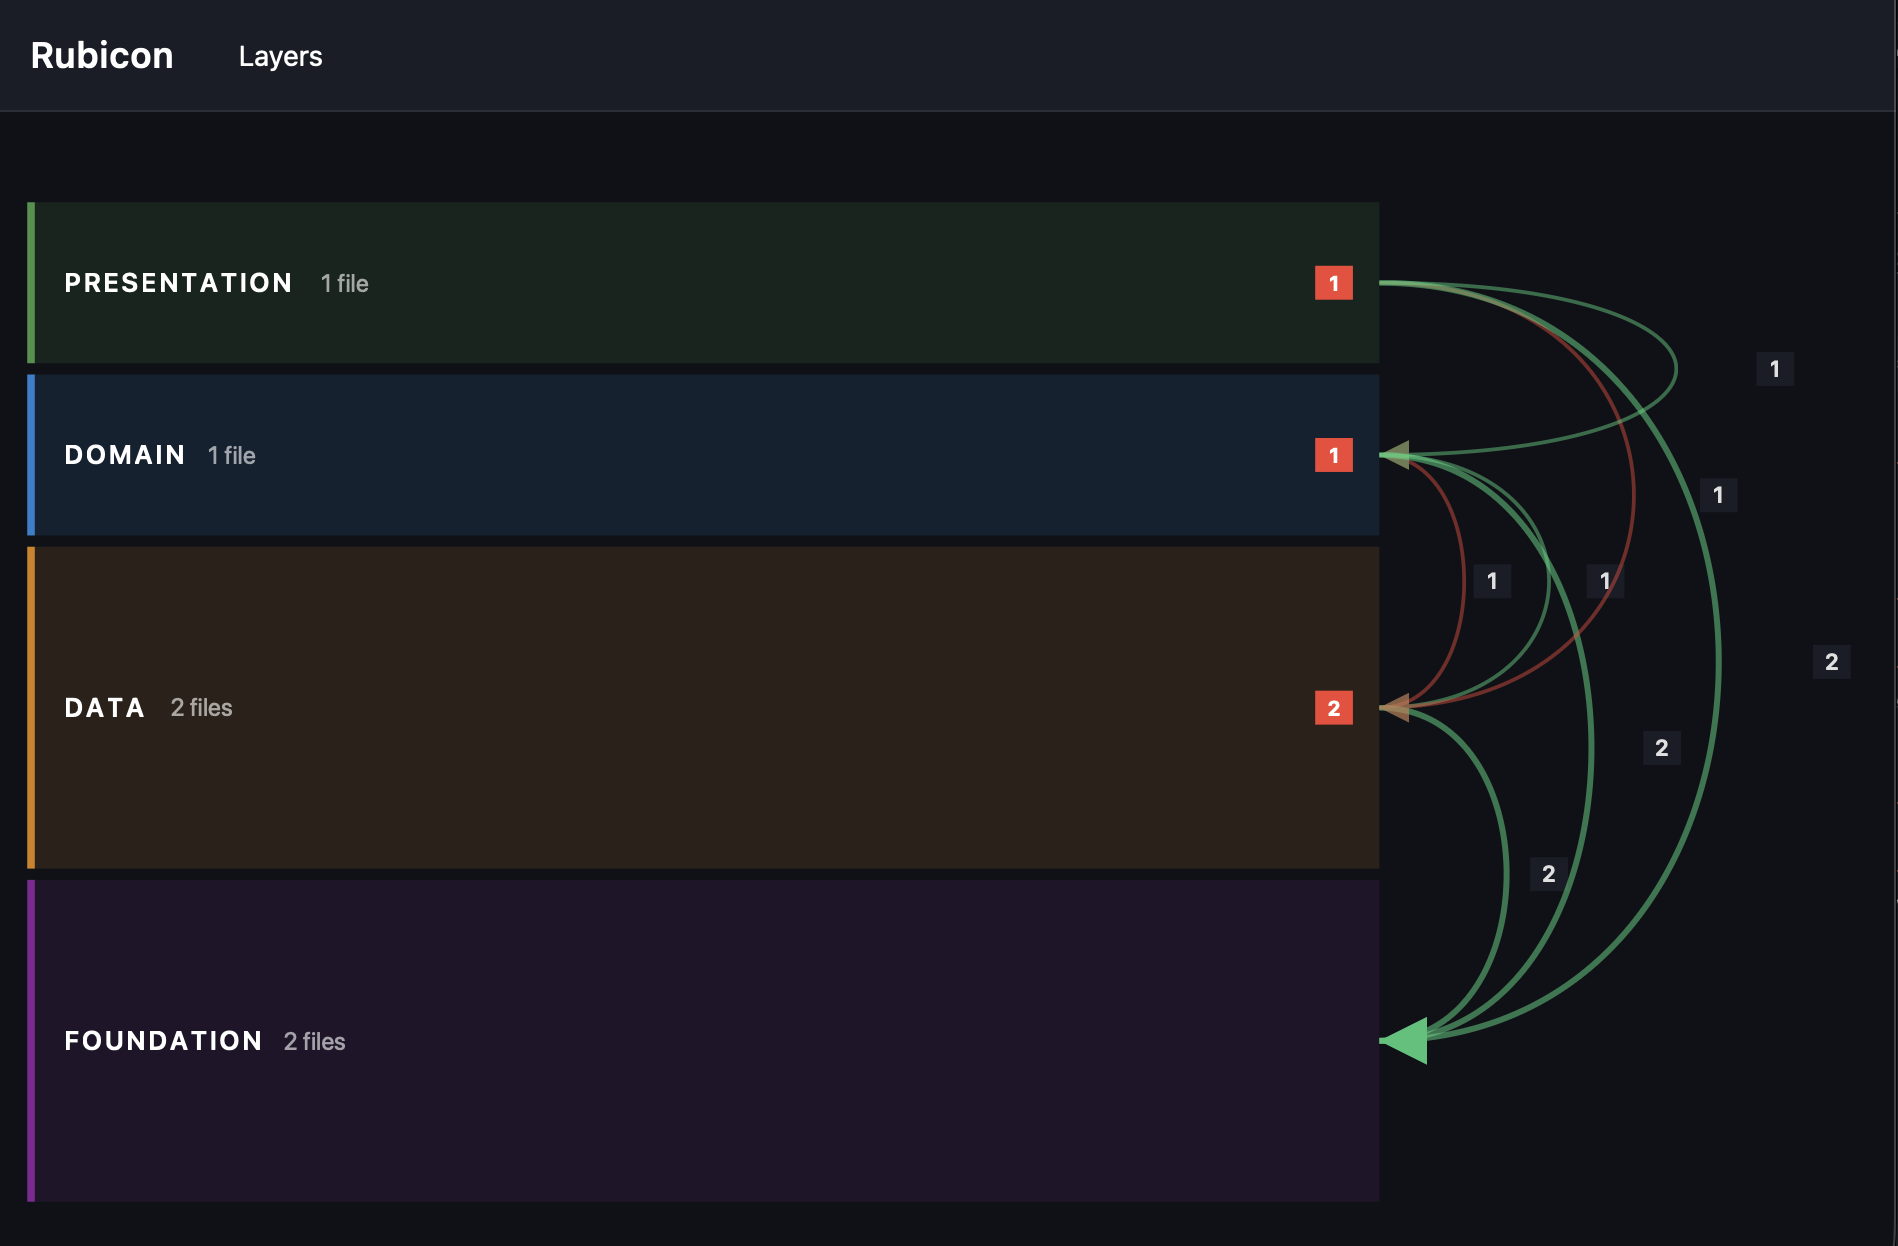
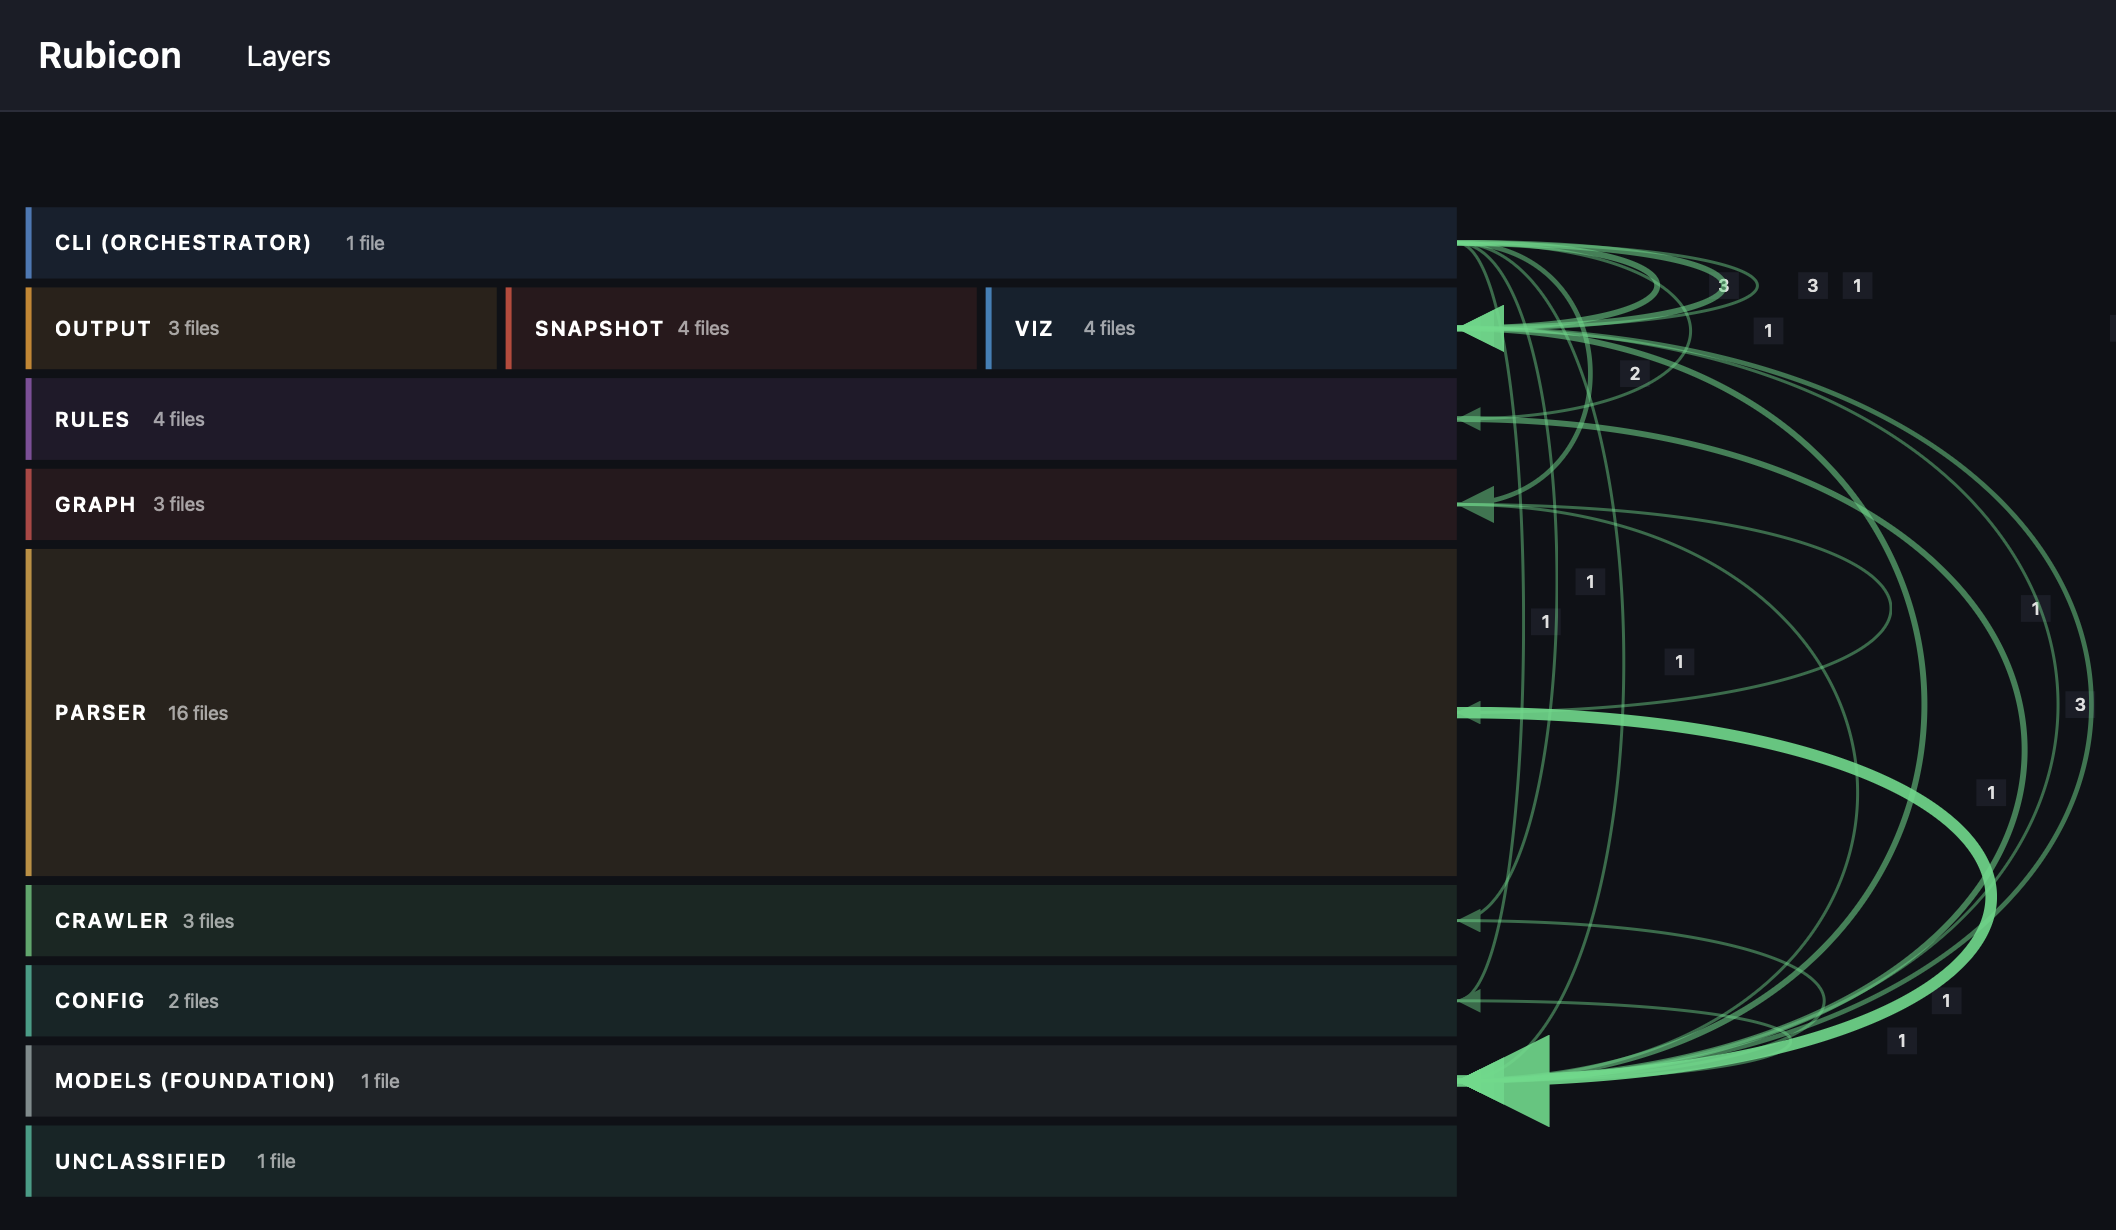
feat: add ignore option to .rubicon config for excluding files from analysis
Files matching ignore patterns are excluded at crawl time — they never
become graph nodes, trigger rules, or appear in the visualization.
Patterns use the same syntax as .gitignore (directories, globs, negation).

Changed region(s): [[0.0, 0.0, 1.0, 1.0], [0.0, 0.0309, 0.0933, 0.0618], [0.1243, 0.0309, 0.1865, 0.0618]]

diff --git a/tests/test_crawler.py b/tests/test_crawler.py
@@ -103,3 +103,30 @@ class TestScan:
             assert False, "Should have raised FrozenInstanceError"
         except AttributeError:
             pass
+
+    def test_ignore_patterns_exclude_files(self) -> None:
+        all_files = scan(FIXTURES)
+        filtered_files = scan(FIXTURES, ignore=["src/app.py"])
+        all_paths = {str(f.path) for f in all_files}
+        filtered_paths = {str(f.path) for f in filtered_files}
+        assert "src/app.py" in all_paths
+        assert "src/app.py" not in filtered_paths
+
+    def test_ignore_patterns_directory(self) -> None:
+        all_files = scan(FIXTURES)
+        filtered_files = scan(FIXTURES, ignore=["src/"])
+        assert len(all_files) == 5
+        assert len(filtered_files) == 0
+
+    def test_ignore_patterns_glob(self) -> None:
+        all_files = scan(FIXTURES)
+        filtered_files = scan(FIXTURES, ignore=["*.py"])
+        all_paths = {str(f.path) for f in all_files}
+        filtered_paths = {str(f.path) for f in filtered_files}
+        assert "src/app.py" in all_paths
+        assert not any(p.endswith(".py") for p in filtered_paths)
+
+    def test_ignore_empty_list_changes_nothing(self) -> None:
+        normal = scan(FIXTURES)
+        with_empty = scan(FIXTURES, ignore=[])
+        assert len(normal) == len(with_empty)

diff --git a/rubicon/cli.py b/rubicon/cli.py
@@ -153,7 +153,8 @@ def analyze(
 ) -> None:
     """Analyze a project's architecture."""
     typer.echo(f"Analyzing: {path}")
-    files = scan(path)
+    config = load_config(path)
+    files = scan(path, ignore=config.ignore)
 
     if crawl_only:
         for f in files:
@@ -167,7 +168,6 @@ def analyze(
         typer.echo(graph_summary(graph))
         raise typer.Exit()
 
-    config = load_config(path)
     if not config.layers and not (path / ".rubicon").is_file():
         typer.echo("No .rubicon config found. Run 'rubicon init' to get started.", err=True)
         raise typer.Exit(code=1)
@@ -257,9 +257,9 @@ def check(
     Produces compact output, saves no snapshots, and returns exit code 1
     if any violations at or above --fail-on severity are found.
     """
-    files = scan(path)
-    graph = build_graph(files)
     config = load_config(path)
+    files = scan(path, ignore=config.ignore)
+    graph = build_graph(files)
     if not config.layers and not (path / ".rubicon").is_file():
         typer.echo("No .rubicon config found. Run 'rubicon init' to get started.", err=True)
         raise typer.Exit(code=1)

diff --git a/rubicon/crawler/ignore.py b/rubicon/crawler/ignore.py
@@ -22,8 +22,13 @@ DEFAULT_EXCLUDES: list[str] = [
 ]
 
 
-def load_gitignore(root: Path) -> PathSpec:
-    """Load .gitignore patterns from the project root."""
+def load_gitignore(root: Path, extra_patterns: list[str] | None = None) -> PathSpec:
+    """Load .gitignore patterns from the project root.
+
+    Args:
+        root: Project root directory.
+        extra_patterns: Additional gitignore-style patterns (e.g. from .rubicon ignore config).
+    """
     gitignore_path = root / ".gitignore"
     patterns = list(DEFAULT_EXCLUDES)
     if gitignore_path.is_file():
@@ -32,4 +37,6 @@ def load_gitignore(root: Path) -> PathSpec:
             for line in gitignore_path.read_text().splitlines()
             if line.strip() and not line.strip().startswith("#")
         )
+    if extra_patterns:
+        patterns.extend(extra_patterns)
     return PathSpec.from_lines("gitignore", patterns)

diff --git a/rubicon/crawler/scanner.py b/rubicon/crawler/scanner.py
@@ -32,14 +32,18 @@ def detect_language(path: Path) -> str | None:
     return EXTENSION_MAP.get(path.suffix.lower())
 
 
-def scan(root: Path) -> list[SourceFile]:
+def scan(root: Path, ignore: list[str] | None = None) -> list[SourceFile]:
     """Walk the directory tree and return all recognized source files.
 
-    Respects .gitignore and default excludes. Skips binary and
-    unrecognized files.
+    Respects .gitignore, default excludes, and extra ignore patterns.
+    Skips binary and unrecognized files.
+
+    Args:
+        root: Project root directory.
+        ignore: Additional gitignore-style patterns from .rubicon config.
     """
     root = root.resolve()
-    spec = load_gitignore(root)
+    spec = load_gitignore(root, extra_patterns=ignore)
     results: list[SourceFile] = []
 
     for file_path in sorted(root.rglob("*")):

diff --git a/tests/test_config.py b/tests/test_config.py
@@ -103,6 +103,20 @@ class TestCustomRulesConfig:
         assert config.custom_rules == []
 
 
+class TestIgnoreConfig:
+    def test_ignore_defaults_to_empty(self) -> None:
+        config = load_config(SAMPLE)
+        assert config.ignore == []
+
+    def test_ignore_parsed_from_config(self) -> None:
+        config = load_config(FIXTURES / "ignore_project")
+        assert config.ignore == ["tests/", "docs/", "*.generated.py"]
+
+    def test_missing_config_ignore_empty(self) -> None:
+        config = load_config(Path("/nonexistent/path"))
+        assert config.ignore == []
+
+
 class TestMalformedConfig:
     def test_malformed_yaml_returns_defaults(self) -> None:
         config = load_config(MALFORMED)

diff --git a/rubicon/models.py b/rubicon/models.py
@@ -156,6 +156,7 @@ class RubiconConfig:
     orchestrator_layers: list[str] = field(default_factory=list)
     rules: list[str] = field(default_factory=lambda: list(ALL_BUILTIN_RULES))
     custom_rules: list[CustomRuleConfig] = field(default_factory=list)
+    ignore: list[str] = field(default_factory=list)
 
     @property
     def layer_map(self) -> dict[str, list[str]]:

diff --git a/rubicon/classifier/config.py b/rubicon/classifier/config.py
@@ -89,4 +89,9 @@ def _parse_config(raw: dict) -> RubiconConfig:
                     severity=str(entry.get("severity", "warning")),
                 ))
 
+    # Parse ignore patterns (gitignore-style)
+    raw_ignore = raw.get("ignore", [])
+    if isinstance(raw_ignore, list):
+        config.ignore = [str(p) for p in raw_ignore]
+
     return config

diff --git a/README.md b/README.md
@@ -52,6 +52,11 @@ layers:
       - data/
     color: "#E8A838"
 
+ignore:
+  - tests/
+  - examples/
+  - "*.generated.py"
+
 layer_order:
   - presentation
   - domain
@@ -82,6 +87,21 @@ custom_rules:
       - django.db
     message: "Domain layer must not import database packages"
 ```
+
+### Ignoring files
+
+The `ignore` field excludes files from the crawl entirely — they won't appear as nodes, won't trigger rules, and won't show up in the visualization.
+
+```yaml
+ignore:
+  - tests/              # entire directory
+  - examples/
+  - "*.generated.py"    # glob pattern
+  - docs/**/*.md        # nested glob
+  - !tests/conftest.py  # negation — include this file even though tests/ is ignored
+```
+
+Patterns in `ignore` are applied on top of Rubicon's built-in excludes (`.git`, `node_modules`, `__pycache__`, etc.).
 
 ## CLI commands
 
